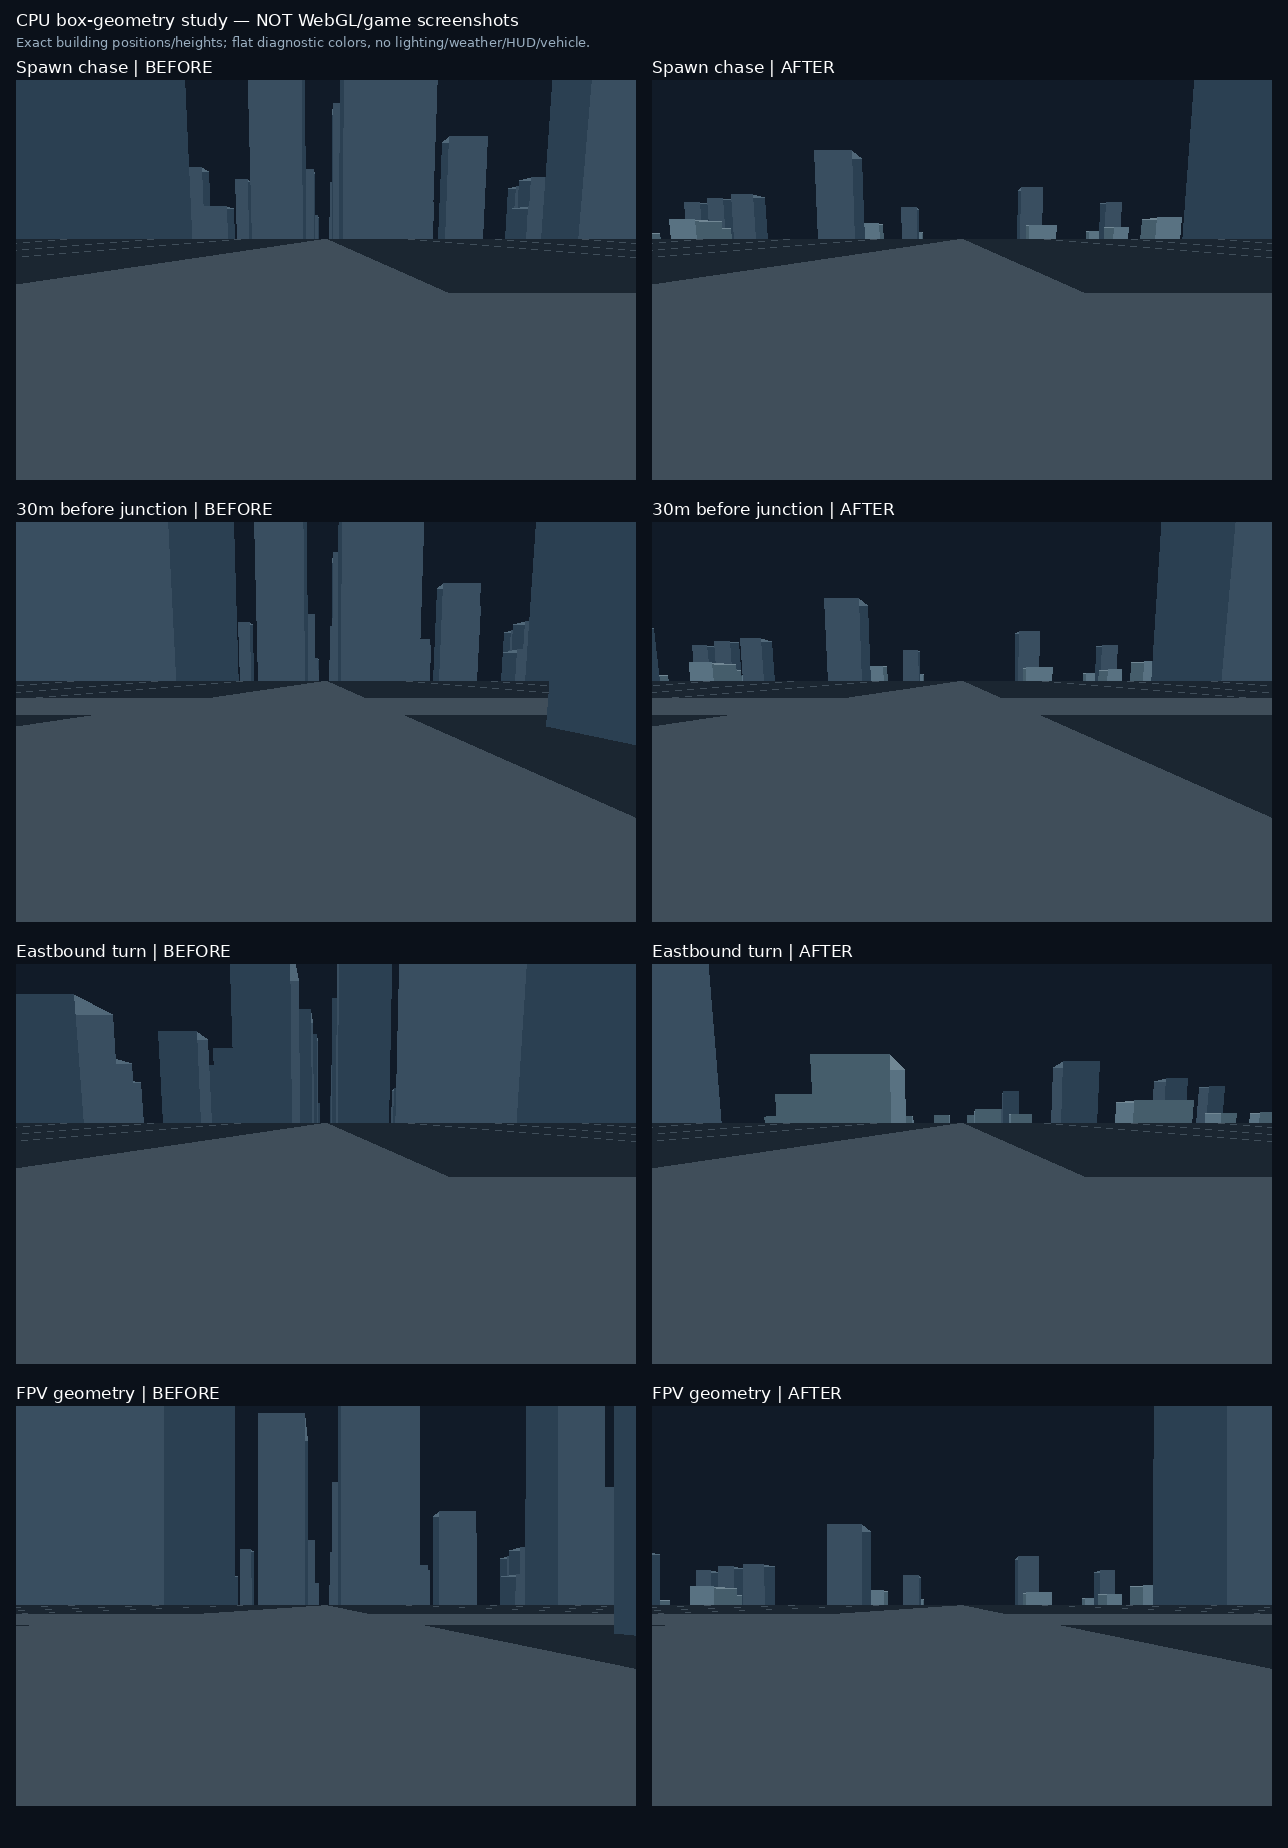
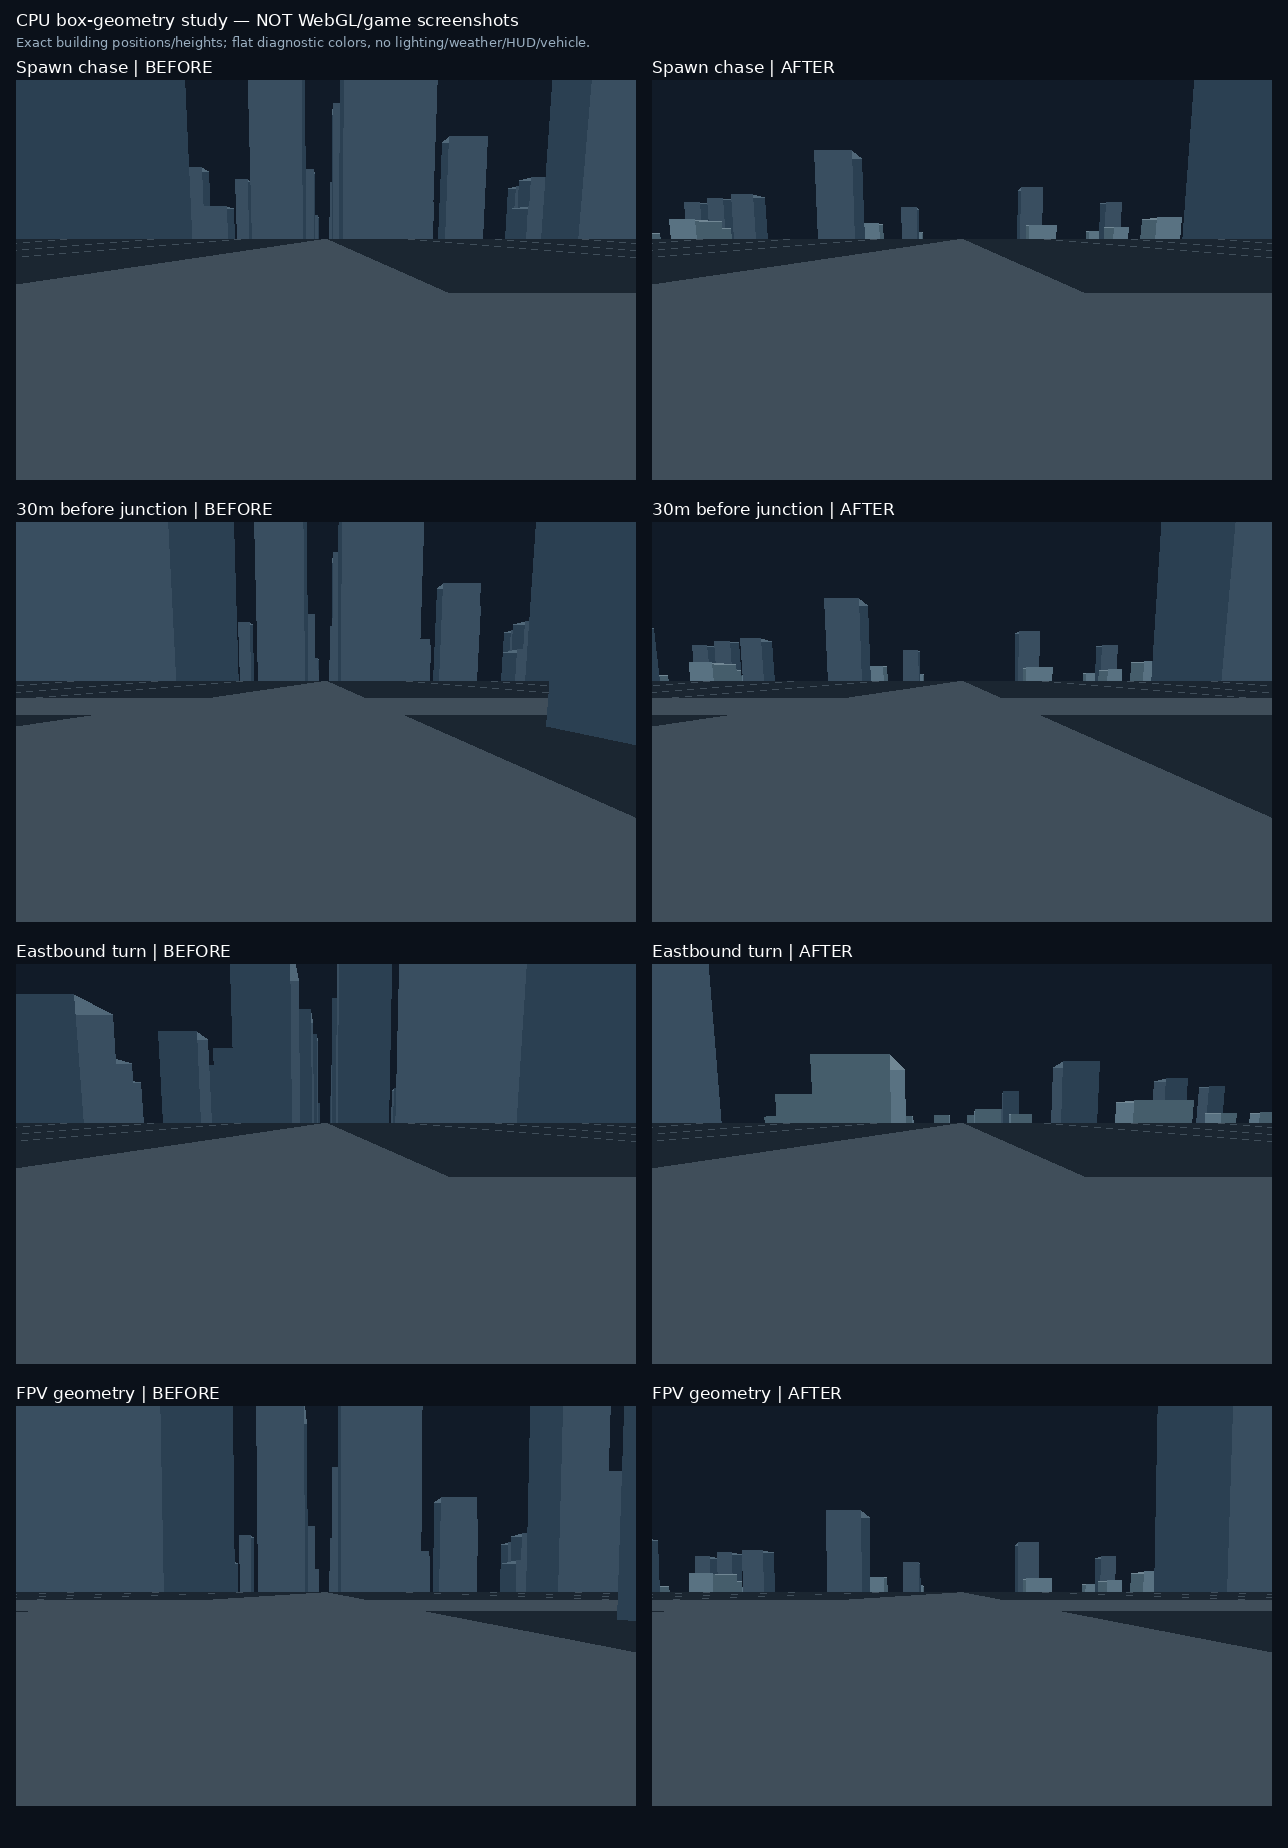
Cover all city cross-traffic lanes and use production FPV study pose
Publish exact local tree 7abc1ab674d42a446f48ee13384451aa60d9543e, saved local commit 701fb80882ffbed4670354c2aa5b0a218d01045b.

diff --git a/verification/map2-clear-views/render-study.py b/verification/map2-clear-views/render-study.py
@@ -1,6 +1,7 @@
 """CPU geometry diagrams, explicitly NOT game/WebGL screenshots or material QA."""
 import json
 import math
+import re
 from pathlib import Path
 import numpy as np
 from PIL import Image, ImageDraw, ImageFont
@@ -10,12 +11,14 @@ data = json.loads((root / 'layout-before-after.json').read_text())
 font = ImageFont.truetype('/usr/share/fonts/truetype/dejavu/DejaVuSans.ttf', 17)
 small = ImageFont.truetype('/usr/share/fonts/truetype/dejavu/DejaVuSans.ttf', 13)
 width, height = 620, 400
+vehicles = (root.parent.parent / 'src/vehicles.js').read_text()
+cockpit = {key: float(re.search(r'\b'+key+r':\s*(-?[\d.]+)', vehicles).group(1)) for key in ['eyeHeight', 'eyeZ', 'downwardSlope']}
 
 def perspective(buildings, position, yaw=0, fpv=False):
     x, z = position
     direction = np.array([-math.sin(yaw), 0, -math.cos(yaw)])
-    eye = np.array([x, 1.1 if fpv else 2.3275, z]) - direction * (0 if fpv else 4.05)
-    target = np.array([x, 1.05 if fpv else .65, z]) + direction * (50 if fpv else 10)
+    eye = np.array([x, cockpit['eyeHeight'] if fpv else 2.3275, z]) - direction * (cockpit['eyeZ'] if fpv else 4.05)
+    target = eye + direction * 50 + np.array([0, -cockpit['downwardSlope'] * 50, 0]) if fpv else np.array([x, .65, z]) + direction * 10
     forward = target - eye
     forward /= np.linalg.norm(forward)
     right = np.cross(forward, [0, 1, 0]); right /= np.linalg.norm(right)

diff --git a/verification/map2-clear-views/README.md b/verification/map2-clear-views/README.md
@@ -4,8 +4,9 @@ Base: live audio release main `affe5aae0b78b52bd25feaba582e27f85bf8cc7c`.
 
 - 99 buildings: 64 low mid-block buildings (18–28 m, 12 m road-edge setback)
   plus 35 recessed towers (76–120 m, one 180 m landmark, >=75 m road setback).
-  No tall corner walls. All 49 junctions clear 40 m sight triangles and 1176
-  tested four-direction cross-traffic sight segments at 45/30/15 m approach.
+  No tall corner walls. All 49 junctions clear 40 m sight triangles and 10584
+  tested cross-traffic sight segments at 45/30/15 m approach: three ego lanes ×
+  three cross-traffic lanes, both cross-street sides and four approach directions.
 - Preserve 35 rooftop refill functions and two visual skybridge groups within
   the original two blocks. Tower positions and bridge centers change; bridge
   collision/landing support was not implemented before and is not claimed here.
@@ -22,6 +23,8 @@ Base: live audio release main `affe5aae0b78b52bd25feaba582e27f85bf8cc7c`.
 `cpu-street-geometry.png` is a visibly labeled CPU box projection comparison,
 not game screenshots. It was opened and checked; it depicts exact building
 positions/heights with diagnostic flat colors, without lighting/weather/HUD.
+FPV uses the production eye height 1.04 m, eye Z -.15 m and downward slope .04
+for a stationary level vehicle; it does not model the cockpit/vehicle occluders.
 The current supported cloud browser cannot initialize the game's WebGL scene;
 no night/rain/material/device visual acceptance is claimed or bypass attempted.
 
